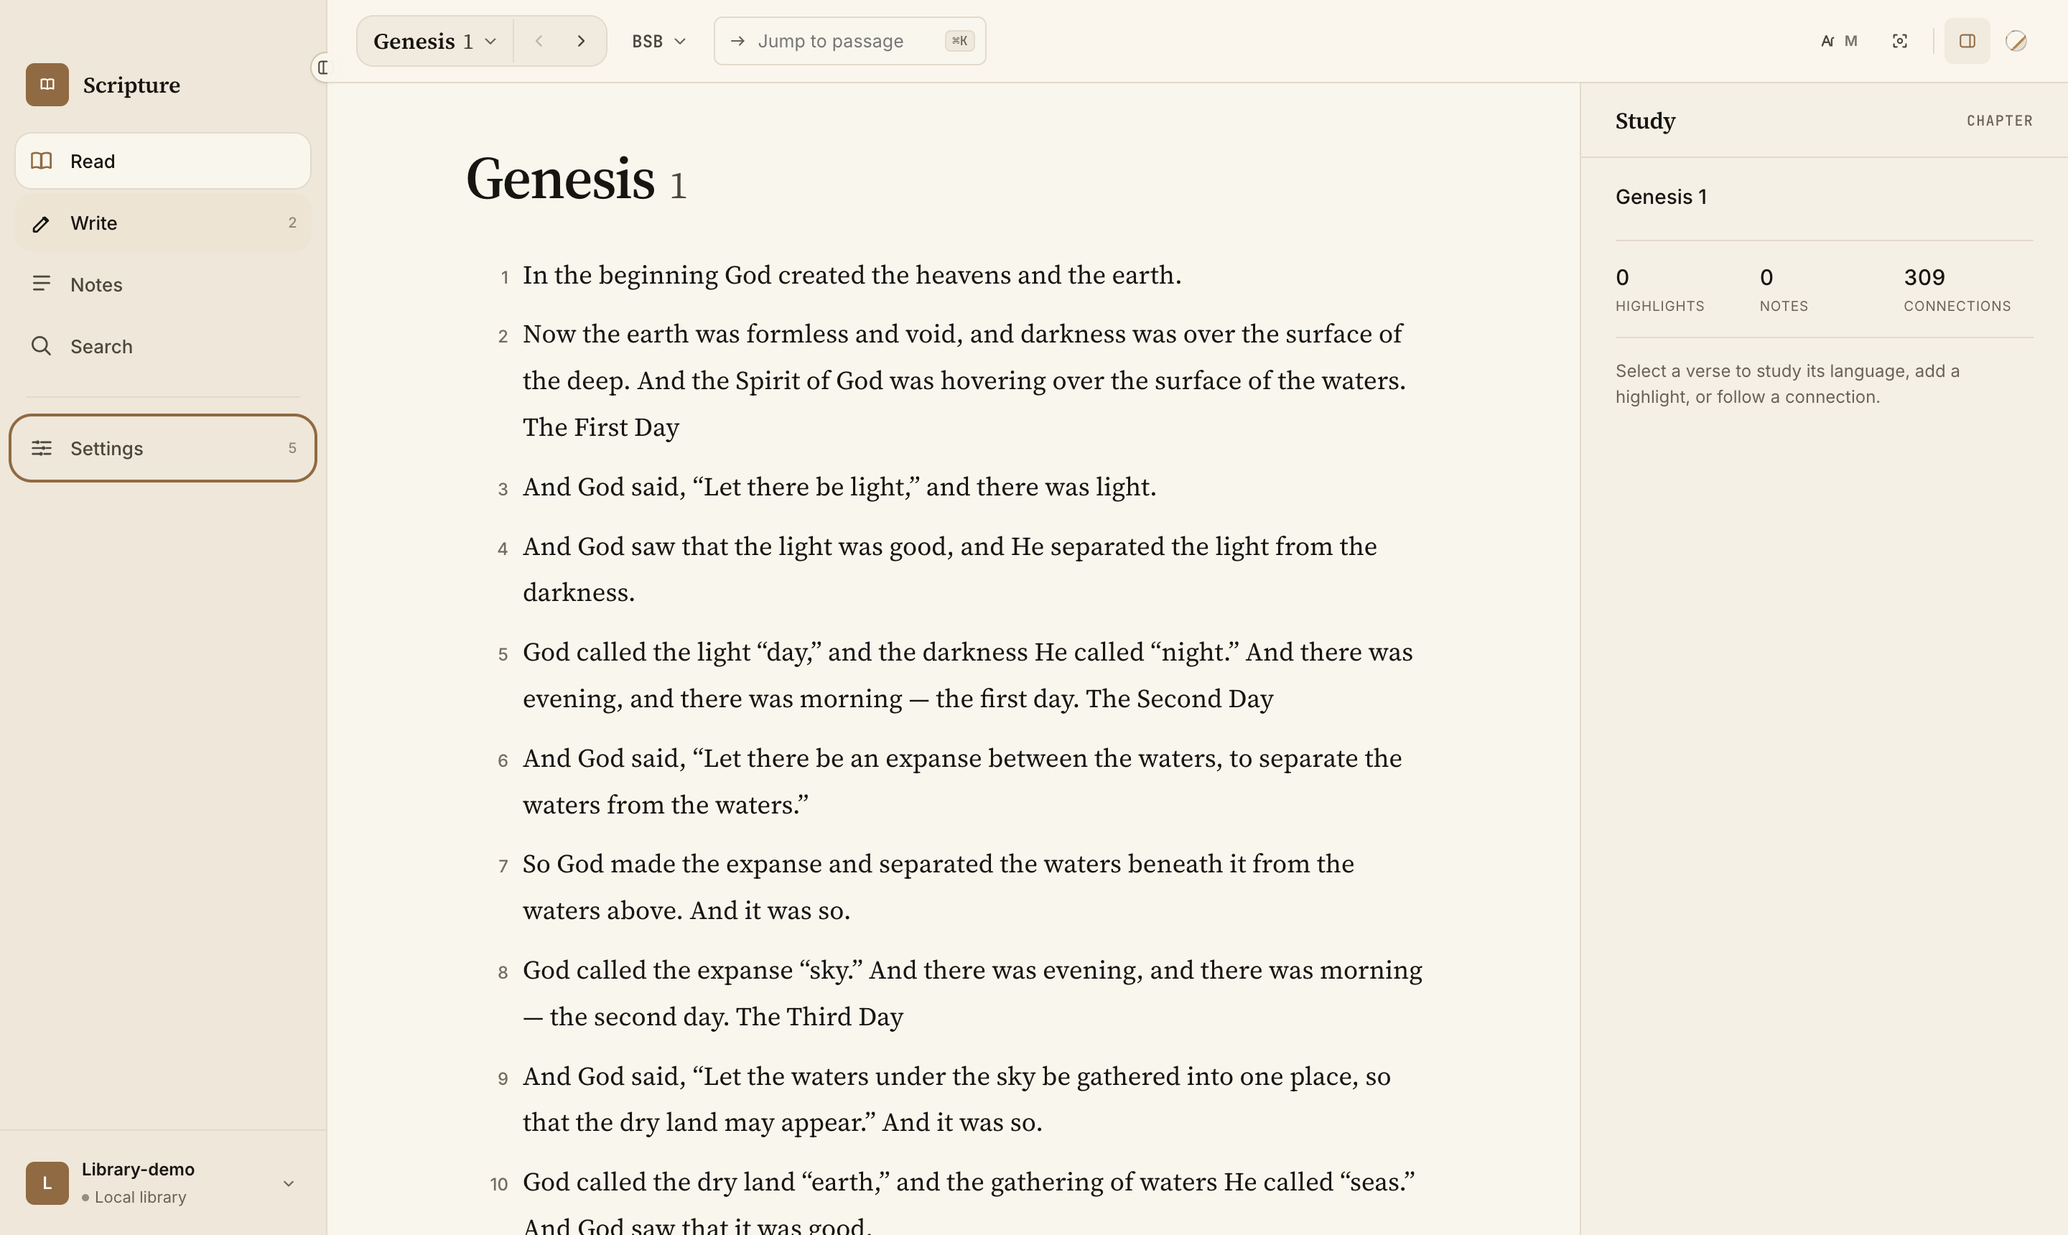
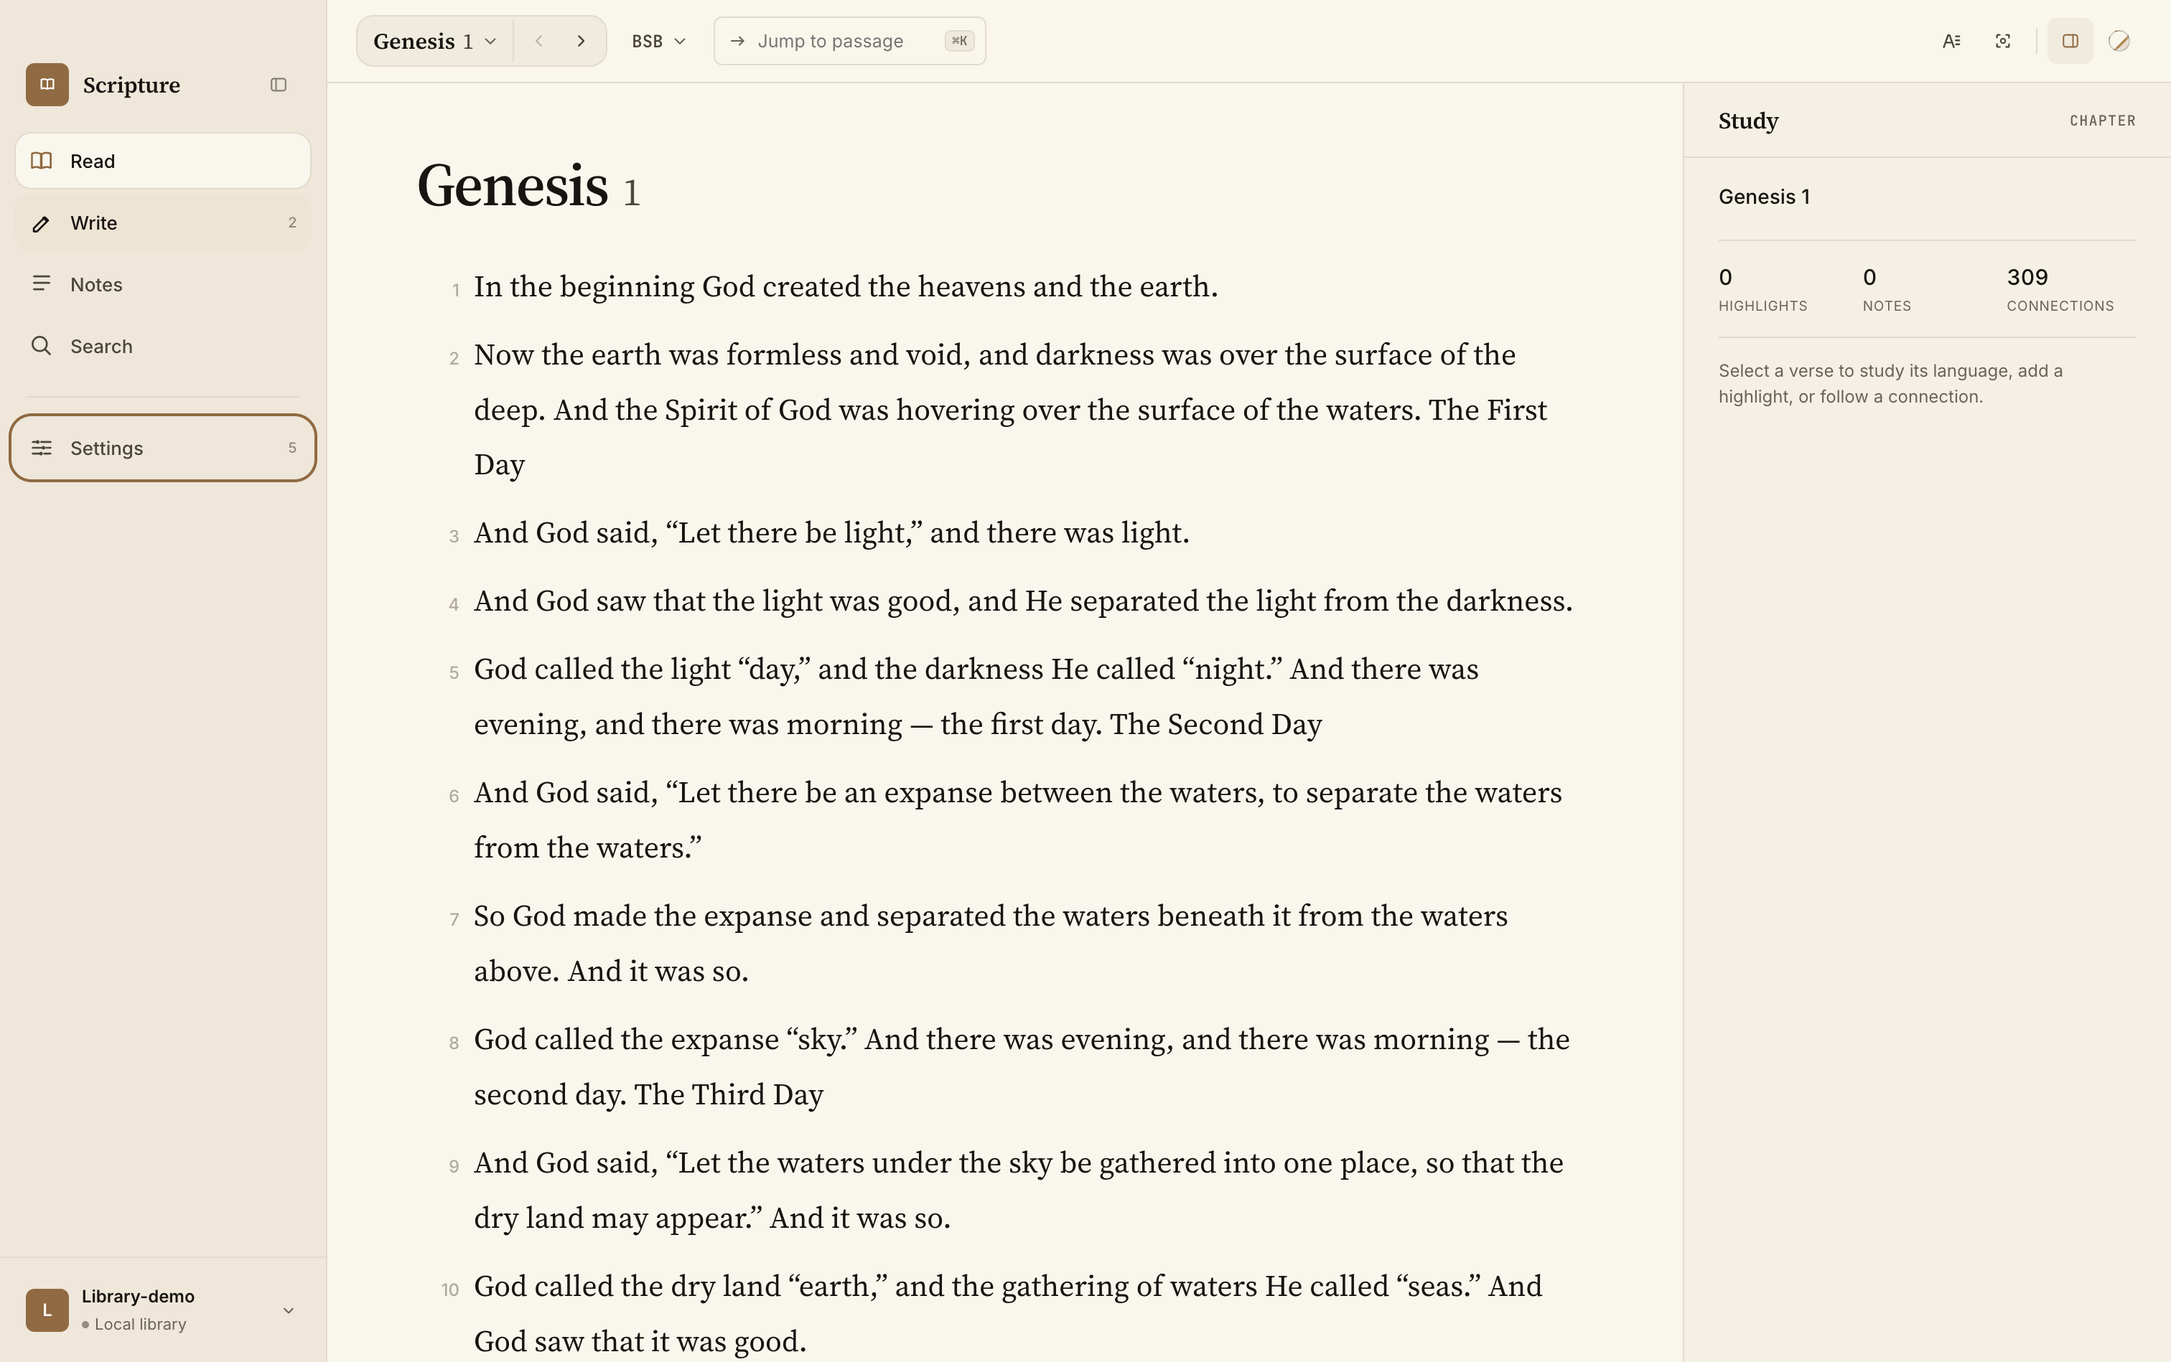
Refine top chrome controls

diff --git a/src/renderer/styles.css b/src/renderer/styles.css
@@ -440,10 +440,7 @@ html, body, #root {
      the content's min-content size — without this override, collapsing to
      64px silently does nothing once any child (nav label, footer text) has
      a wider intrinsic minimum, regardless of the width/flex-shrink values.
-     min-width:0 alone is sufficient (the automatic-minimum-size floor only
-     applies when min-width is `auto`); deliberately NOT using overflow:hidden
-     here — .sidebar-collapse-btn is intentionally positioned half outside
-     the sidebar's own box (right:-12px) and would get clipped by it. */
+     min-width:0 removes that automatic floor. */
   min-width: 0;
   flex-shrink: 0;
   background: var(--bg-sidebar);
@@ -462,34 +459,28 @@ html, body, #root {
 
 .sidebar-collapse-btn {
   -webkit-app-region: no-drag;
-  position: absolute;
-  top: calc(env(titlebar-area-height, 28px) + var(--sp-sm));
-  right: -11px;
-  width: 22px;
-  height: 22px;
-  border-radius: 50%;
-  background: var(--bg-surface);
-  border: 1px solid var(--border-medium);
-  box-shadow: var(--shadow-subtle);
-  display: flex;
+  width: 30px;
+  height: 30px;
+  border: 0;
+  border-radius: var(--radius-sm);
+  background: transparent;
+  display: grid;
   align-items: center;
   justify-content: center;
   color: var(--text-secondary);
   cursor: pointer;
-  opacity: 0.55;
+  opacity: 0.68;
   transition: opacity var(--transition-fast), background var(--transition-fast), color var(--transition-fast), transform var(--transition-fast);
-  z-index: 6;
 }
 
-.sidebar:hover .sidebar-collapse-btn,
-.sidebar.collapsed .sidebar-collapse-btn,
 .sidebar-collapse-btn:focus-visible {
   opacity: 1;
 }
 
 .sidebar-collapse-btn:hover {
-  background: var(--bg-secondary);
+  background: var(--study-hover-surface);
   color: var(--text-primary);
+  opacity: 1;
 }
 
 .sidebar-collapse-btn:active {
@@ -498,8 +489,16 @@ html, body, #root {
 
 .sidebar-header {
   -webkit-app-region: drag;
+  display: flex;
+  align-items: center;
+  gap: var(--sp-sm);
   padding: 16px 18px 18px;
   position: relative;
+}
+
+.sidebar-header > .control-tooltip-anchor {
+  flex-shrink: 0;
+  margin-left: auto;
 }
 
 .brand-row {
@@ -507,16 +506,32 @@ html, body, #root {
   display: flex;
   align-items: center;
   gap: 10px;
+  min-width: 0;
 }
 
 .sidebar.collapsed .sidebar-header {
-  padding-left: 0;
-  padding-right: 0;
+  justify-content: center;
+  padding-left: 17px;
+  padding-right: 17px;
 }
 
 .sidebar.collapsed .brand-row {
   justify-content: center;
   gap: 0;
+}
+
+.sidebar.collapsed .sidebar-header > .control-tooltip-anchor {
+  position: absolute;
+  top: 16px;
+  left: 17px;
+  margin: 0;
+  opacity: 0;
+  transition: opacity var(--transition-fast);
+}
+
+.sidebar.collapsed .sidebar-header:hover > .control-tooltip-anchor,
+.sidebar.collapsed .sidebar-header:focus-within > .control-tooltip-anchor {
+  opacity: 1;
 }
 
 .brand-mark {
@@ -529,6 +544,12 @@ html, body, #root {
   align-items: center;
   justify-content: center;
   flex-shrink: 0;
+  transition: opacity var(--transition-fast);
+}
+
+.sidebar.collapsed .sidebar-header:hover .brand-mark,
+.sidebar.collapsed .sidebar-header:focus-within .brand-mark {
+  opacity: 0;
 }
 
 .brand-word {
@@ -9489,9 +9510,10 @@ textarea:focus-visible,
 .reading-comfort-btn {
   display: inline-flex;
   align-items: center;
-  gap: 4px;
+  justify-content: center;
+  width: 32px;
   height: 32px;
-  padding: 0 8px;
+  padding: 0;
   border: 1px solid transparent;
   border-radius: var(--radius-sm);
   background: transparent;
@@ -9510,13 +9532,6 @@ textarea:focus-visible,
   color: var(--accent-current);
   border-color: color-mix(in srgb, var(--accent-current) 28%, transparent);
 }
-.reading-comfort-size-tag {
-  font-size: 10px;
-  font-weight: var(--fw-semibold);
-  letter-spacing: 0.04em;
-  opacity: 0.75;
-}
-
 .reading-comfort-popover {
   padding: 12px 12px 10px;
 }
@@ -9640,14 +9655,6 @@ textarea:focus-visible,
 @media (max-width: 980px) {
   .passage-picker-book {
     max-width: 92px;
-  }
-
-  .reading-comfort-size-tag {
-    display: none;
-  }
-
-  .reading-comfort-btn {
-    padding-inline: 7px;
   }
 }
 

diff --git a/src/renderer/app.tsx b/src/renderer/app.tsx
@@ -17,6 +17,7 @@ import { ToastProvider } from "./components/Toast.js";
 import { Popover } from "./components/Popover.js";
 import { WelcomeScreen } from "./components/WelcomeScreen.js";
 import type { ReadingPrefs } from "./components/ReadingComfort.js";
+import { Tooltip } from "./components/Tooltip.js";
 import { isDarkTheme, type AppTheme } from "./theme.js";
 import { safeCall } from "./utils/safeCall.js";
 import "./styles.css";
@@ -528,15 +529,6 @@ export function App(): React.JSX.Element {
               className={`sidebar${sidebarCollapsed ? " collapsed" : ""}`}
               aria-label="Primary navigation"
             >
-              <button
-                className="sidebar-collapse-btn"
-                onClick={toggleSidebarCollapsed}
-                title={sidebarCollapsed ? "Expand sidebar" : "Collapse sidebar"}
-                aria-label={sidebarCollapsed ? "Expand sidebar" : "Collapse sidebar"}
-                aria-expanded={!sidebarCollapsed}
-              >
-                <PanelToggleIcon />
-              </button>
               <div className="sidebar-header">
                 <div className="brand-row" aria-label="Scripture">
                   <div className="brand-mark">
@@ -544,6 +536,17 @@ export function App(): React.JSX.Element {
                   </div>
                   <div className="brand-word">Scripture</div>
                 </div>
+                <Tooltip label={sidebarCollapsed ? "Expand sidebar" : "Collapse sidebar"}>
+                  <button
+                    type="button"
+                    className="sidebar-collapse-btn"
+                    onClick={toggleSidebarCollapsed}
+                    aria-label={sidebarCollapsed ? "Expand sidebar" : "Collapse sidebar"}
+                    aria-expanded={!sidebarCollapsed}
+                  >
+                    <PanelToggleIcon />
+                  </button>
+                </Tooltip>
               </div>
               <div className="sidebar-nav">
                 <NavItem active={view === "scripture"} onClick={() => setView("scripture")} label="Read" icon={<ReadIcon />} shortcut="1" />

diff --git a/src/renderer/components/ReadingComfort.tsx b/src/renderer/components/ReadingComfort.tsx
@@ -18,12 +18,14 @@ interface Props {
   onToggleFocus: () => void;
 }
 
-function AaIcon(): React.JSX.Element {
+function TextLayoutIcon(): React.JSX.Element {
   return (
-    <svg viewBox="0 0 20 20" width="15" height="15" fill="none" stroke="currentColor" strokeWidth="1.5" strokeLinecap="round" strokeLinejoin="round" aria-hidden>
-      <path d="M4.5 14.5L8 5.5h.5L12 14.5" />
-      <path d="M5.8 11.2h4.9" />
-      <path d="M13.2 14.5V8.8c0-1.1.7-1.8 1.8-1.8" />
+    <svg className="reading-layout-icon" viewBox="0 0 20 20" width="16" height="16" fill="none" stroke="currentColor" strokeWidth="1.5" strokeLinecap="round" strokeLinejoin="round" aria-hidden>
+      <path d="M3.5 15.5 7.2 5h1.3l3.7 10.5" />
+      <path d="M5.1 11.5h5.5" />
+      <path d="M14 6h3" />
+      <path d="M14 9.5h3" />
+      <path d="M14 13h3" />
     </svg>
   );
 }
@@ -59,7 +61,7 @@ const VERSE_MODES: SegmentedOption<VerseNumberMode>[] = [
 ];
 
 /**
- * Super-clean reading chrome: one Aa control + focus toggle.
+ * Super-clean reading chrome: one text-layout control + focus toggle.
  * Size / width / verse-number density live in a small popover.
  */
 export function ReadingComfort({ prefs, onChange, focusMode, onToggleFocus }: Props): React.JSX.Element {
@@ -96,8 +98,7 @@ export function ReadingComfort({ prefs, onChange, focusMode, onToggleFocus }: Pr
           aria-haspopup="dialog"
           aria-expanded={open}
         >
-          <AaIcon />
-          <span className="reading-comfort-size-tag">{prefs.readingSize.toUpperCase()}</span>
+          <TextLayoutIcon />
         </button>
       </Tooltip>
 

diff --git a/tests/sidebar-navigation-contract.test.ts b/tests/sidebar-navigation-contract.test.ts
@@ -23,7 +23,10 @@ test("sidebar exposes one production density and one library-menu trigger", () =
   assert.match(app, /aria-current=\{active \? "page" : undefined\}/);
   assert.match(app, /aria-label="Primary navigation"/);
   assert.match(app, /aria-expanded=\{!sidebarCollapsed\}/);
+  assert.match(app, /<div className="sidebar-header">[\s\S]*<Tooltip label=\{sidebarCollapsed \? "Expand sidebar" : "Collapse sidebar"\}>[\s\S]*className="sidebar-collapse-btn"/);
   assert.match(app, /ariaLabel="Library menu"/);
+  assert.doesNotMatch(css, /\.sidebar-collapse-btn\s*\{[\s\S]*right:\s*-11px/);
+  assert.match(css, /\.sidebar\.collapsed \.sidebar-header:hover > \.control-tooltip-anchor/);
 });
 
 test("sidebar footer describes local state without implying remote sync", () => {

diff --git a/tests/shared-controls-contract.test.ts b/tests/shared-controls-contract.test.ts
@@ -61,6 +61,8 @@ test("tooltips replace native title-only hints for compact reading actions", () 
   assert.match(tooltip, /onFocusCapture=\{\(\) => showAfter\(120\)\}/);
   assert.match(tooltip, /event\.key === "Escape"/);
   assert.match(comfort, /<Tooltip label="Reading layout">/);
+  assert.match(comfort, /function TextLayoutIcon/);
+  assert.doesNotMatch(comfort, /reading-comfort-size-tag|function AaIcon/);
   assert.match(comfort, /shortcut="F"/);
   assert.match(theme, /<Tooltip label=\{`Reading atmosphere/);
 });

diff --git a/STATUS.md b/STATUS.md
@@ -27,7 +27,7 @@ This is the living delivery ledger. The build specification and `AGENTS.md` rema
 | Non-Git snapshot RevisionStore | L1 | L1 | Groundwork for iOS/mobile exists; retention pruning and UI are not implemented. |
 | iOS client | L0 | L0 deferred | No iOS project/toolchain setup. Do not start before Tier B/C maturity improves. |
 | Scripture data WEB/KJV (+ YLT) | L2→L3 | L3 | Full WEB + KJV + YLT across all 66 books (1189 chapters each). **Fixed 2026-07-14:** backbone had short verse counts on 1SA 23, JOB 41–42, 1CO 16 (28/26/12/10 vs classic KJV 29/34/17/24); `build-scripture-packages.mjs` truncated package JSON to those counts, so the reader actually omitted the tail of those chapters — not “counts only.” Backbone restored to classic KJV total **31,102**; WEB/KJV rebuilt for the three books; YLT import Doctor clean (0 backbone Δ). Regression: `tests/scripture-packages.test.ts` hot-chapter + total checks. Package manifests + license flags + formatVersion + Doctor content checks remain. |
-| App UX / onboarding / settings / error states | L3 | L3 | B2 desktop scope complete 2026-07-15. Paper, Ink, Glass, and Candlelight share one durable warm token system and restrained interaction language across the shell, navigation, reading canvas, Living Margin, shared controls, Settings/onboarding/import, Write/Notes/Search, original-language study, OpenBible previews, and Structure diagrams. Explicit mutations expose busy/recoverable failure/confirmed-success states; mobile remains in its separate worktree. `npm run qa:desktop` passes all eight four-atmosphere suites, including keyboard/focus and the 900px floor, while preserving 26 notes and 24 highlights. Full verification: 401 tests, 391 passing, 10 expected Electron-ABI skips; lint, renderer typecheck, Electron/renderer builds, and diff integrity pass. Source-shelf/PDF ingestion remains B4, sync remains C2, and plugin management remains C3. |
+| App UX / onboarding / settings / error states | L3 | L3 | B2 desktop scope complete 2026-07-15. Paper, Ink, Glass, and Candlelight share one durable warm token system and restrained interaction language across the shell, navigation, reading canvas, Living Margin, shared controls, Settings/onboarding/import, Write/Notes/Search, original-language study, OpenBible previews, and Structure diagrams. Explicit mutations expose busy/recoverable failure/confirmed-success states; mobile remains in its separate worktree. `npm run qa:desktop` passes all eight four-atmosphere suites, including keyboard/focus and the 900px floor, while preserving 26 notes and 24 highlights. Full verification: 401 tests, 391 passing, 10 expected Electron-ABI skips; lint, renderer typecheck, Electron/renderer builds, and diff integrity pass. A focused top-chrome follow-up moved the sidebar toggle inside the brand header with collapsed brand-to-expand disclosure, replaced the broken-looking composite layout mark with one typography-and-measure glyph, and added maximized-window-safe 900px QA. Source-shelf/PDF ingestion remains B4, sync remains C2, and plugin management remains C3. |
 | CI / native rebuild / lint | L2 | L2 | Two explicit commands (`rebuild:node` / `rebuild:electron`) cover the ABI 137/133 split; `npm run lint` reproducible (exit 0); `npm test` ABI-independent (8/8); preflight gates Electron launch. See `docs/native-build.md`. CI matrix not yet configured. |
 
 ## Sequenced Backlog

diff --git a/tasks/B2-app-ux-pass.md b/tasks/B2-app-ux-pass.md
@@ -4,6 +4,17 @@
 > **Predecessors:** A0 (snapshot), A1 (native build), B1 (scripture data).
 > **Contracts:** §4.2 (event fold), §4.4 (SQLite materialized view), §4.6 (note format), INV-7 (append-only), INV-9 (safe to rebuild).
 
+## Progress — 2026-07-15 (Top chrome control refinement)
+
+A focused post-consolidation audit corrected the two remaining ambiguous controls without reopening the wider desktop system:
+
+- **Sidebar ownership is now obvious:** the collapse action no longer floats halfway across the sidebar/content divider like a resize handle. In the expanded sidebar it is a quiet, tooltip-backed action aligned inside the brand header. In the collapsed rail the brand remains at rest and gives way to the expand action only when its header is hovered or keyboard-focused.
+- **Reading layout is one glyph:** the broken-looking custom `Aa` plus detached current-size letter was replaced by one line icon combining type and text measure. The 32px control now matches Focus, Study, and atmosphere controls without presenting “Aᵣ M” as accidental text.
+- **Geometry is enforced:** sidebar QA proves that the toggle stays inside the rail and shares the brand's vertical center; it captures both collapsed idle and discoverable hover states. Topbar QA proves the new icon exists, the detached size tag does not, and the control remains safe at the 900px desktop floor.
+- **Maximized-window-safe QA:** the 900px topbar pass now uses renderer device metrics, so a human-maximized Electron window cannot make the responsive proof fail or be unmaximized behind the user's back.
+
+**Verification:** focused sidebar/topbar/shared-control/consolidation contracts (**14/14**), `npm run qa:sidebar`, `npm run qa:topbar`, full `npm test` (**401 tests: 391 passing, 10 expected Electron-ABI skips**), `npm run lint`, renderer typecheck/build, four-atmosphere screenshot inspection, and `git diff --check` pass. Mobile remains outside this worktree.
+
 ## Progress — 2026-07-15 (Desktop consolidation)
 
 The tenth and final bounded desktop visual-system pass is complete. It closes the gap between the rendered interface, its durable design contract, and its automated evidence without broadening into mobile, source-shelf/PDF ingestion, or sync:

diff --git a/docs/desktop-visual-system.md b/docs/desktop-visual-system.md
@@ -42,6 +42,7 @@ The picker is named **Reading atmosphere**, not Theme. Its compact explanation i
 
 - Expanded width is 228px; the optional collapsed rail is 64px. These are the production densities, not user-selectable visual experiments.
 - The Scripture wordmark identifies the application and does not open a library menu. The footer switcher is the single place that identifies and changes the active local library.
+- The sidebar toggle belongs inside the brand header rather than straddling the content divider. In the collapsed rail the brand remains visible at rest and yields to the expand action on header hover or keyboard focus, keeping identity and navigation ownership in one stable location.
 - The active destination combines a neutral inset material with one gold icon. Hover is a quieter material change. Keyboard focus keeps the visible gold ring.
 - Numeric shortcuts remain `1–5`, but their labels appear only on the hovered or keyboard-focused destination so the idle column stays quiet.
 - The idle footer says `Local library`. It never implies cloud sync. While source-backed passage work is active it says `Studying passage…` and pulses the avatar.
@@ -52,6 +53,7 @@ The picker is named **Reading atmosphere**, not Theme. Its compact explanation i
 - Book/chapter, Previous/Next, translation, and passage jump form one compact navigation system. `⌘K` focuses the jump command; Escape clears an error or returns focus from a picker.
 - Picker headings explain the consequence of the choice. Translation changes rendered text while notes stay anchored; Reading layout changes presentation while preserving text.
 - Icon-only reading tools retain visible hover/focus states, truthful accessible names, and one quiet divider between presentation controls and panel/atmosphere controls.
+- Reading layout uses one typography-and-measure glyph. It does not append the current size as a detached letter; the popover carries the complete size, width, and verse-number state.
 - Desktop compression preserves every capability. At 900px the dormant jump command becomes an icon and expands on focus without colliding with the passage group.
 
 ## Reading canvas contract
